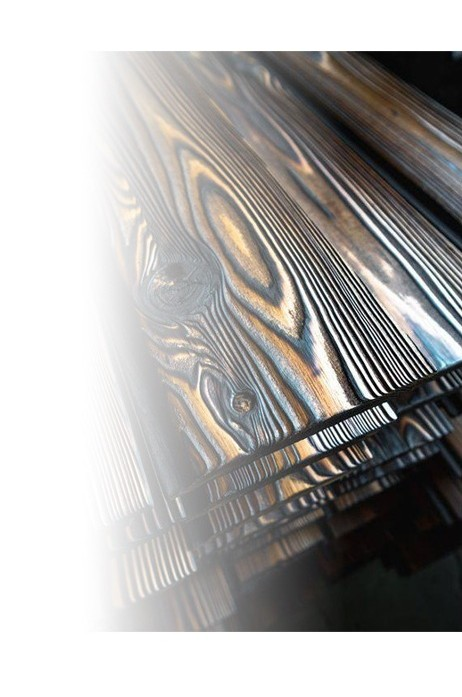
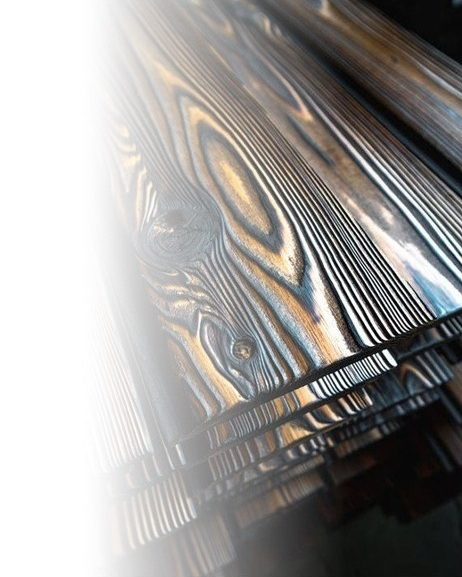
Changed background; changed file format from js to jsx;

diff --git a/src/styles/components/Home/HeroHomeSection.css b/src/styles/components/Home/HeroHomeSection.css
@@ -1,8 +1,5 @@
 .heroHome {
-    background: url('../../../images/main.jpg');
-    background-size: 1100px 1450px;
-    background-position: right;
-    background-repeat: no-repeat;
+    position: relative;
     color: white;
     text-align: center;
     padding: 400px 0 100px;
@@ -10,6 +7,18 @@
     display: flex;
     align-items: flex-start;
   }
+
+  .heroHome::before {
+    content: '';
+    position: absolute;
+    top: 0;
+    right: 0;
+    bottom: 0;
+    width: 1100px;
+    background: url('../../../images/main.jpg');
+    background-size: cover;
+    z-index: -1;
+}
   
   .heroHome-content {
     max-width: 100%;
